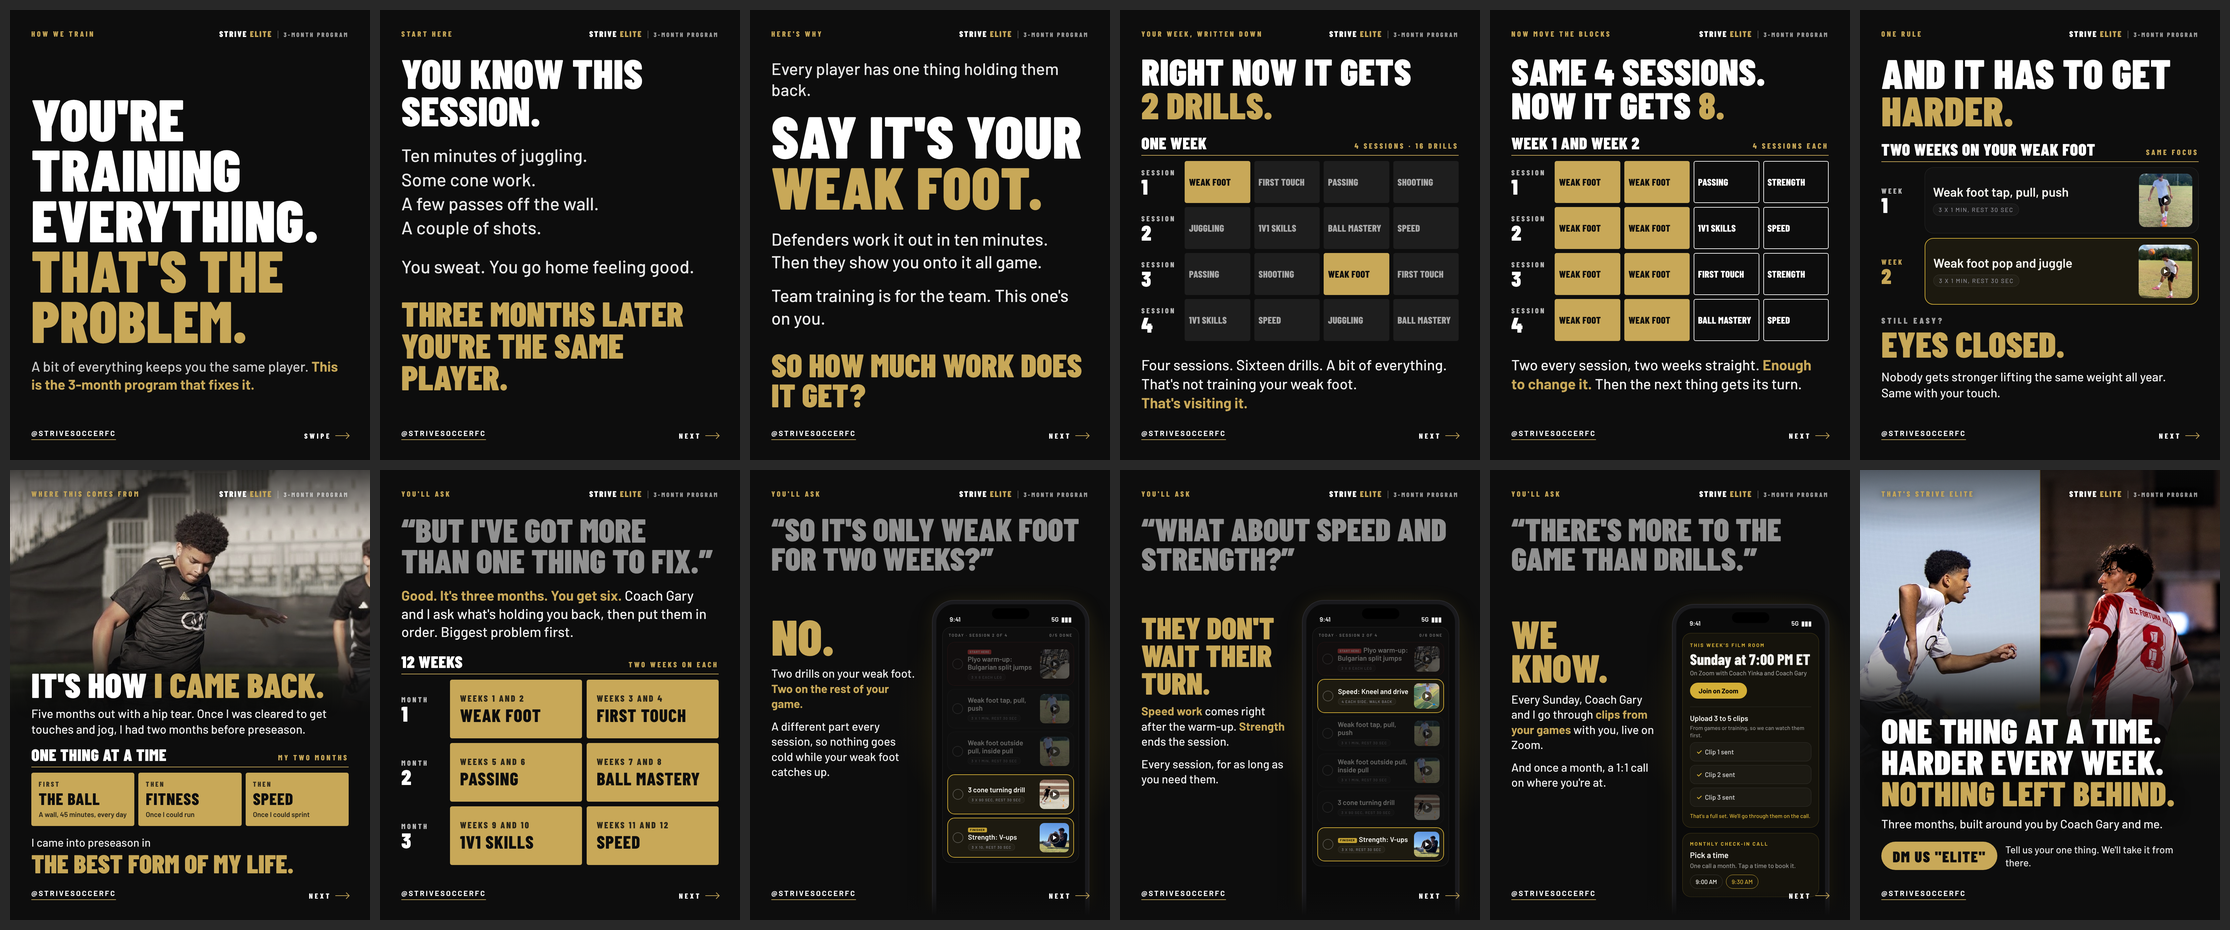
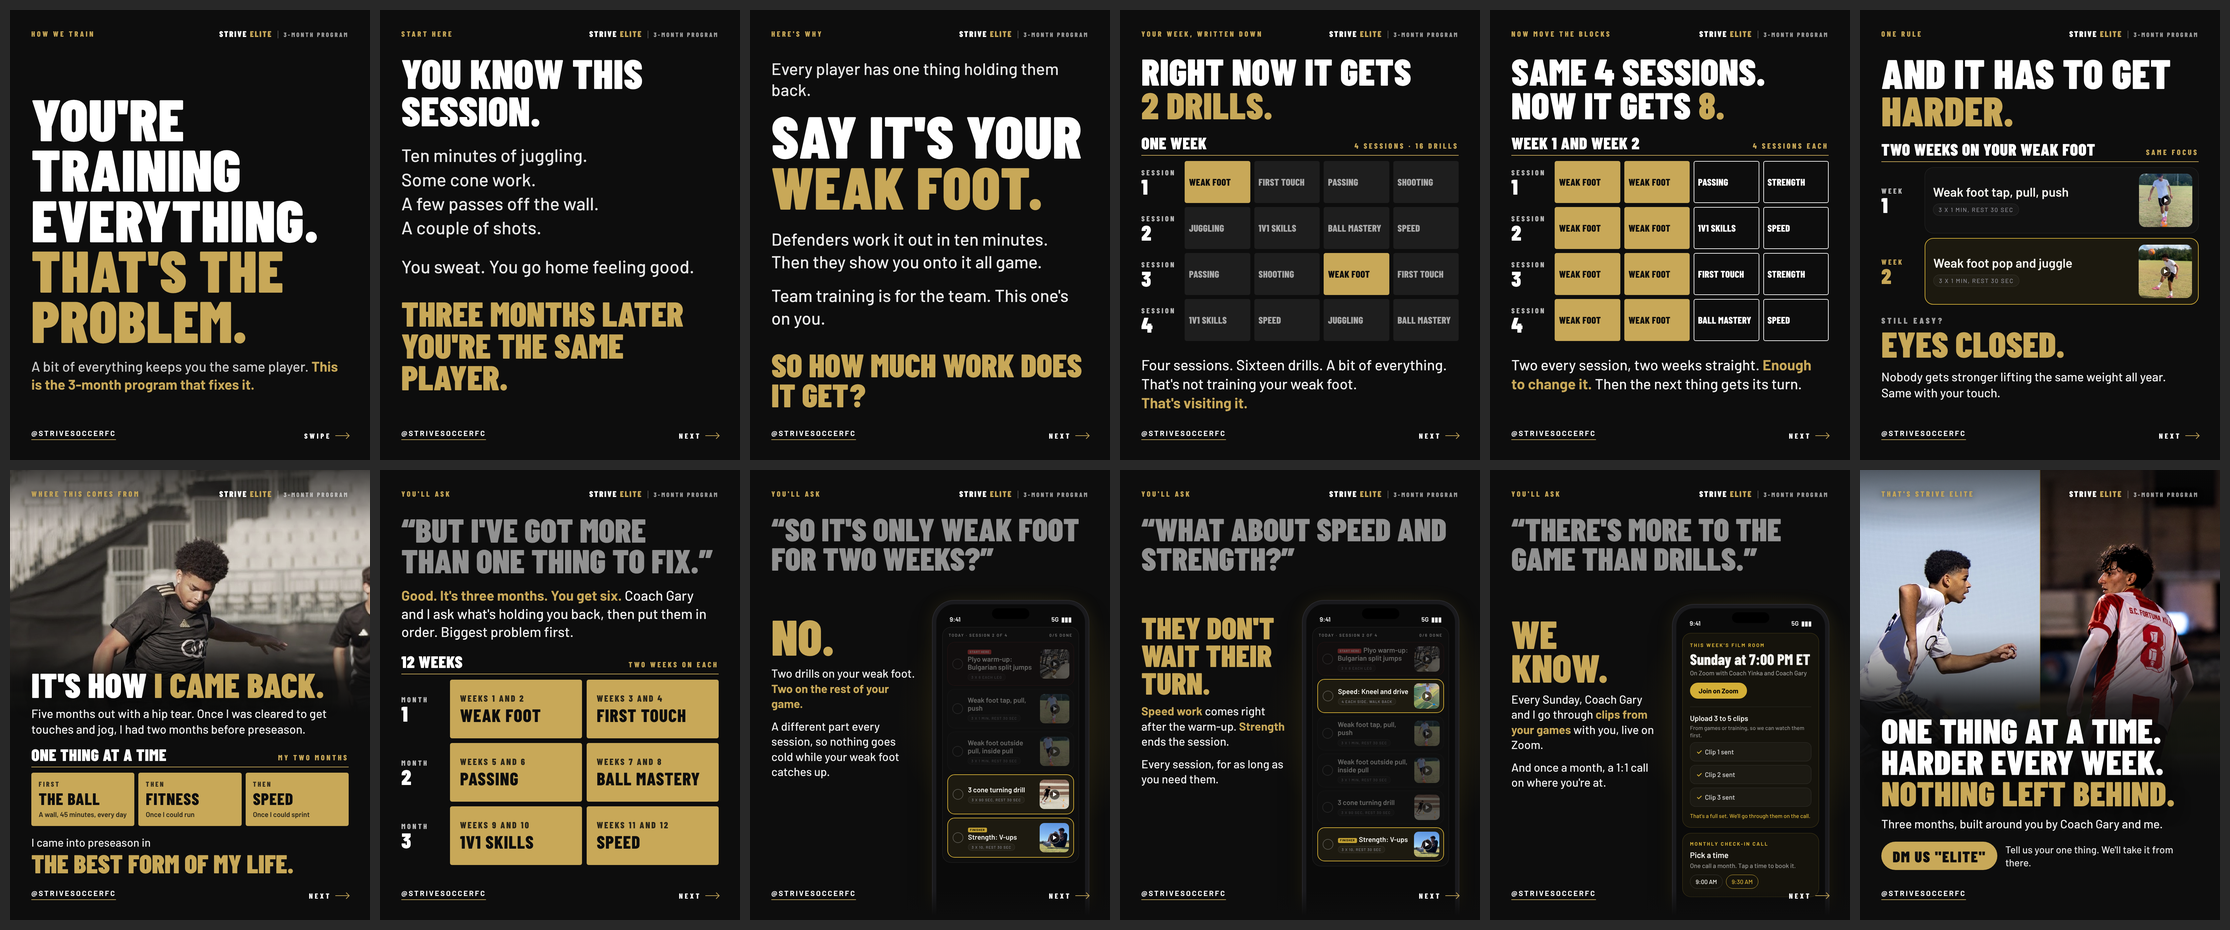
Opinion carousel: comeback photo shows more above his head
Claude-Session: https://claude.ai/code/session_011JsCTTjCbUkHbTuWTKQSXJ

Changed region(s): [[0.0, 0.4989, 0.1857, 0.7172]]

diff --git a/marketing/program/one-thing-carousel-3/07-story.html b/marketing/program/one-thing-carousel-3/07-story.html
@@ -1,7 +1,7 @@
 <!doctype html><meta charset="utf-8"><link rel="stylesheet" href="../../covers/strive-elite-meeting/fonts.css"><link rel="stylesheet" href="style.css"><title>How I came back</title>
 <style>
 .ph{position:absolute;inset:0;background:url(photos/story.jpg) center top/1080px 1350px;filter:saturate(.8) contrast(1.05)}
-.sh{position:absolute;inset:0;background:linear-gradient(180deg,rgba(13,13,13,.72) 0%,rgba(13,13,13,0) 13%,rgba(13,13,13,0) 36%,rgba(13,13,13,.9) 47%,#0d0d0d 54%,#0d0d0d 100%)}
+.sh{position:absolute;inset:0;background:linear-gradient(180deg,rgba(13,13,13,.72) 0%,rgba(13,13,13,0) 13%,rgba(13,13,13,0) 39%,rgba(13,13,13,.9) 47%,#0d0d0d 54%,#0d0d0d 100%)}
 .low{position:absolute;left:64px;right:64px;bottom:134px}
 h1{font-size:104px;white-space:nowrap;text-shadow:0 8px 50px rgba(0,0,0,.7)}
 .p{margin-top:18px;font-size:36px;line-height:1.3}

diff --git a/CLAUDE.md b/CLAUDE.md
@@ -4023,6 +4023,7 @@ commit.
       THEN (Coach Yinka: "No keep the old pic bc it was popped up nicely then. Adjust the page of my story to make more sense with the post and to be structured better"): (1) the Week 2 card stays named "Weak foot pop and juggle" and carries the earlier frame with the ball popped up (a frame of the pop and settle clip, the same take the two drills were cut from). (2) THE COMEBACK SLIDE RESTRUCTURED to run in the post's own order and words, four parts, no paragraphs: "Six months out with a hip tear. Two months to get ready for a more competitive team." / "I DIDN'T TRAIN EVERYTHING. ONE THING AT A TIME." (the cover turned around, the close repeats it) / the schedule graphic "MY TWO MONTHS, in this order": First THE BALL (A wall, 45 minutes, every day), Then FITNESS (Once I could run), Then SPEED (Once I could sprint) / "BENCH PLAYER TO STARTER." The two lines that were my wording ("no time to fix everything at once", "the rest of my game kept moving") are gone. Sent, not posted.
       THEN (Coach Yinka: "Just say 5 months out with a hip tear, once I was cleared to get touches/ jog, I had 2 monfhs before preseason and I came into preseason in the best form of my life"): the comeback slide carries his words: "Five months out with a hip tear. Once I was cleared to get touches and jog, I had two months before preseason." / "I DIDN'T TRAIN EVERYTHING. ONE THING AT A TIME." / My two months, in this order (the ball, fitness, speed) / "I came into preseason in THE BEST FORM OF MY LIFE." "Bench player to starter" and "a more competitive team" are off this slide. HIS STORY IS FIVE MONTHS OUT from here (the Nov 11 entries above say six, his first wording); the draft caption is updated; the shorter structure carousel's cover and drafts 1 and 2 still say six and need the same change if any of them is used. Sent, not posted.
       THEN (Coach Yinka sent a photo of himself striking a ball in the black NVA training kit, stadium seats behind: "Center me In the pic better and use this pic"): the comeback slide carries that photo (photos/src/yinka-strike-stadium.jpg, scaled 1.33x so he sits on the centre line, head and chest clear in the top half). To give the photo the room, the headline moved under it on one line and "One thing at a time" became the header of the schedule (the separate "I didn't train everything" line is gone); his words and the three blocks are unchanged. A teammate's shoulder shows at the right edge, no face. Sent, not posted.
+      THEN (Coach Yinka: "You can show a bit higher. That picture"): the photo sits about 80 px lower on the comeback slide, so more of the stand above his head shows and his head is clear of the top bar; text unchanged. Sent, not posted.
 
 ## Skills (use them without being asked)
 
